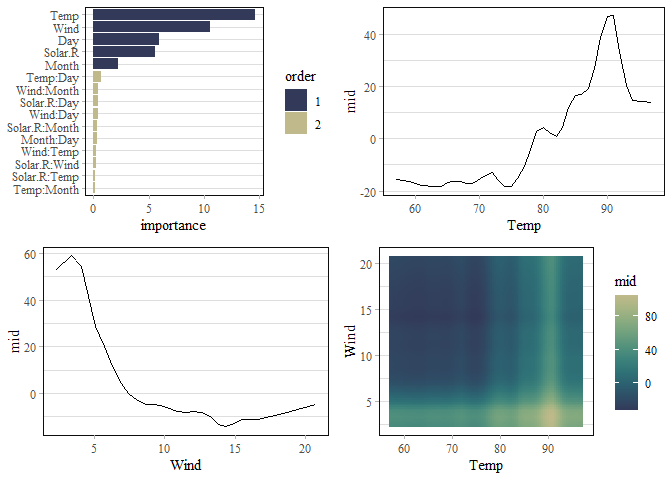
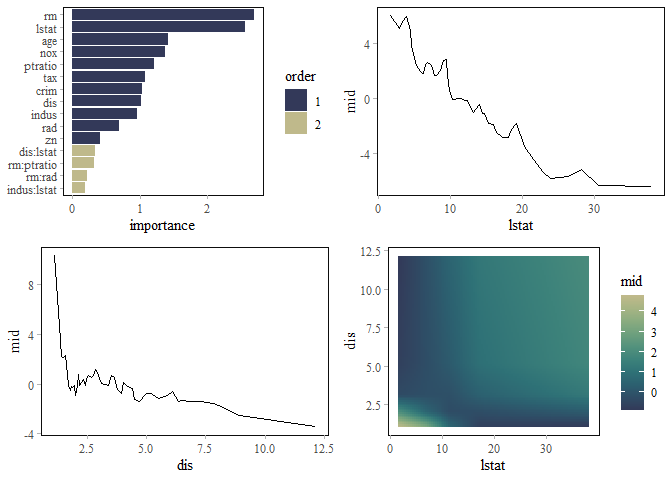
versin 0.1.0.904 - fixed NAMESPACE to export all required functions

diff --git a/README.md b/README.md
@@ -37,30 +37,31 @@ library(ggplot2)
 library(gridExtra)
 library(tune)
 library(rsample)
-theme_set(theme_midr("y"))
+library(ISLR2)
+theme_set(theme_midr())
 ```
 
 ``` r
 # create a first-order mid surrogate model
 mid_spec_1 <- mid_surrogate(
-  params_main = 50, penalty = .9
+  params_main = 50, penalty = .1
 ) %>%
   set_mode("regression") %>%
-  set_engine("midr", verbosity = 3)
+  set_engine("midr", verbosity = 0)
 mid_spec_1
 #> mid surrogate Model Specification (regression)
 #> 
 #> Main Arguments:
-#>   penalty = 0.9
+#>   penalty = 0.1
 #>   params_main = 50
 #> 
 #> Engine-Specific Arguments:
-#>   verbosity = 3
+#>   verbosity = 0
 #> 
 #> Computational engine: midr
 # fit the model
 mid_1 <- mid_spec_1 %>%
-  fit(Ozone ~ ., airquality)
+  fit(medv ~ ., ISLR2::Boston)
 mid_1
 #> parsnip model object
 #> 
@@ -69,67 +70,74 @@ mid_1
 #> interpret(x = x, y = y, weights = weights, k = k, lambda = penalty,
 #>  verbosity = ..1)
 #> 
-#> Intercept: 42.099
+#> Intercept: 22.533
 #> 
 #> Main Effects:
-#> 5 main effect terms
+#> 12 main effect terms
 #> 
-#> Uninterpreted Variation Ratio: 0.085045
+#> Uninterpreted Variation Ratio: 0.055656
 ```
 
 ``` r
 # create a second-order mid surrogate model via "custom formula"
 mid_spec_2 <- mid_surrogate(
-  params_main = 50, params_inter = 5, penalty = .9,
-  custom_formula = Ozone ~ .^2
+  params_main = 50, params_inter = 5, penalty = .1,
+  custom_formula = medv ~ .^2
 ) %>%
   set_mode("regression") %>%
-  set_engine("midr", verbosity = 3)
+  set_engine("midr", verbosity = 0)
 mid_spec_2
 #> mid surrogate Model Specification (regression)
 #> 
 #> Main Arguments:
-#>   penalty = 0.9
+#>   penalty = 0.1
 #>   params_main = 50
 #>   params_inter = 5
-#>   custom_formula = Ozone ~ .^2
+#>   custom_formula = medv ~ .^2
 #> 
 #> Engine-Specific Arguments:
-#>   verbosity = 3
+#>   verbosity = 0
 #> 
 #> Computational engine: midr
 # fit the model
 mid_2 <- mid_spec_2 %>%
-  fit(Ozone ~ ., airquality) # pass original data on to interpret()
+  fit(medv ~ ., ISLR2::Boston) # pass original data on to interpret()
 mid_2
 #> parsnip model object
 #> 
 #> 
 #> Call:
-#> interpret(formula = Ozone ~ .^2, data = data, weights = weights,
+#> interpret(formula = medv ~ .^2, data = data, weights = weights,
 #>  verbosity = ..1, k = k, lambda = penalty)
 #> 
-#> Intercept: 42.099
+#> Intercept: 22.533
 #> 
 #> Main Effects:
-#> 5 main effect terms
+#> 12 main effect terms
 #> 
 #> Interactions:
-#> 10 interaction terms
+#> 66 interaction terms
 #> 
-#> Uninterpreted Variation Ratio: 0.073086
+#> Uninterpreted Variation Ratio: 0.032996
 ```
 
 ``` r
 grid.arrange(nrow = 2,
- ggmid(mid.importance(mid_2$fit), theme = "moon"),
- ggmid(mid_2$fit, "Temp", main.effects = TRUE),
- ggmid(mid_2$fit, "Wind", main.effects = TRUE),
- ggmid(mid_2$fit, "Temp:Wind", main.effects = TRUE, theme = "moonlit")
+ ggmid(mid.importance(mid_2$fit), theme = "moon", max.nterms = 15),
+ ggmid(mid_2$fit, "lstat", main.effects = TRUE),
+ ggmid(mid_2$fit, "dis", main.effects = TRUE),
+ ggmid(mid_2$fit, "lstat:dis", theme = "moonlit")
 )
 ```
 
 <img src="man/figures/README-ggmid_2d_fit-1.png" width="100%" />
+
+``` r
+par.midr()
+persp(mid_2$fit, "lstat:dis", theta = 150, phi = 20, shade = .5)
+```
+
+<img src="man/figures/README-persp_mid-1.png" width="100%" />
 
 ## Tune MID Surrogate Models using ‘tune’
 
@@ -139,10 +147,10 @@ mid_spec <- mid_surrogate(
   params_main = tune(),
   params_inter = tune(),
   penalty = tune(),
-  custom_formula = Ozone ~ .^2
+  custom_formula = medv ~ .^2
 ) %>%
   set_mode("regression") %>%
-  set_engine("midr", verbosity = 3)
+  set_engine("midr", verbosity = 0)
 mid_spec
 #> mid surrogate Model Specification (regression)
 #> 
@@ -150,28 +158,28 @@ mid_spec
 #>   penalty = tune()
 #>   params_main = tune()
 #>   params_inter = tune()
-#>   custom_formula = Ozone ~ .^2
+#>   custom_formula = medv ~ .^2
 #> 
 #> Engine-Specific Arguments:
-#>   verbosity = 3
+#>   verbosity = 0
 #> 
 #> Computational engine: midr
 # define a cross validation method
 set.seed(42)
-cv <- vfold_cv(na.omit(airquality), v = 3)
+cv <- vfold_cv(ISLR2::Boston, v = 2)
 # execute the hyperparameter tuning
 tune_res <- mid_spec %>%
-  tune_grid(
-    Ozone ~ .,
+  tune_bayes(
+    medv ~ .,
     resamples = cv,
-    grid = 100
+    iter = 50
   )
 tune_best <- select_best(tune_res, metric = "rmse")
 tune_best
 #> # A tibble: 1 × 4
-#>   penalty params_main params_inter .config               
-#>     <dbl>       <int>        <int> <chr>                 
-#> 1    8.70          38            1 Preprocessor1_Model079
+#>   penalty params_main params_inter .config
+#>     <dbl>       <int>        <int> <chr>  
+#> 1    11.4          60            5 Iter5
 ```
 
 ``` r
@@ -180,10 +188,10 @@ mid_spec <- mid_surrogate(
   params_main = tune_best$params_main,
   params_inter = tune_best$params_inter,
   penalty = tune_best$penalty,
-  custom_formula = Ozone ~ .^2
+  custom_formula = medv ~ .^2
 ) %>%
   set_mode("regression") %>%
-  set_engine("midr", verbosity = 3)
+  set_engine("midr", verbosity = 0, singular.ok = TRUE)
 mid_spec
 #> mid surrogate Model Specification (regression)
 #> 
@@ -191,42 +199,49 @@ mid_spec
 #>   penalty = tune_best$penalty
 #>   params_main = tune_best$params_main
 #>   params_inter = tune_best$params_inter
-#>   custom_formula = Ozone ~ .^2
+#>   custom_formula = medv ~ .^2
 #> 
 #> Engine-Specific Arguments:
-#>   verbosity = 3
+#>   verbosity = 0
+#>   singular.ok = TRUE
 #> 
 #> Computational engine: midr
 # fit the model
 mid_tune <- mid_spec %>%
-  fit(Ozone ~ ., airquality) # pass original data on to interpret()
+  fit(medv ~ ., ISLR2::Boston) # pass original data on to interpret()
 mid_tune
 #> parsnip model object
 #> 
 #> 
 #> Call:
-#> interpret(formula = Ozone ~ .^2, data = data, weights = weights,
-#>  verbosity = ..1, k = k, lambda = penalty)
+#> interpret(formula = medv ~ .^2, data = data, weights = weights,
+#>  verbosity = ..1, k = k, lambda = penalty, singular.ok = ..2)
 #> 
-#> Intercept: 42.099
+#> Intercept: 22.533
 #> 
 #> Main Effects:
-#> 5 main effect terms
+#> 12 main effect terms
 #> 
 #> Interactions:
-#> 10 interaction terms
+#> 66 interaction terms
 #> 
-#> Uninterpreted Variation Ratio: 0.18429
+#> Uninterpreted Variation Ratio: 0.1004
 ```
 
 ``` r
 grid.arrange(nrow = 2,
- ggmid(mid.importance(mid_tune$fit), theme = "moon"),
- ggmid(mid_tune$fit, "Temp", main.effects = TRUE),
- ggmid(mid_tune$fit, "Wind", main.effects = TRUE),
- ggmid(mid_tune$fit, "Temp:Wind",
-       main.effects = TRUE, theme = "moonlit")
+ ggmid(mid.importance(mid_2$fit), theme = "moon", max.nterms = 15),
+ ggmid(mid_tune$fit, "lstat", main.effects = TRUE),
+ ggmid(mid_tune$fit, "dis", main.effects = TRUE),
+ ggmid(mid_tune$fit, "lstat:dis", theme = "moonlit")
 )
 ```
 
 <img src="man/figures/README-ggmid_tune_fit-1.png" width="100%" />
+
+``` r
+par.midr()
+persp(mid_tune$fit, "lstat:dis", theta = 150, phi = 20, shade = .5)
+```
+
+<img src="man/figures/README-persp_tuned_mid-1.png" width="100%" />
